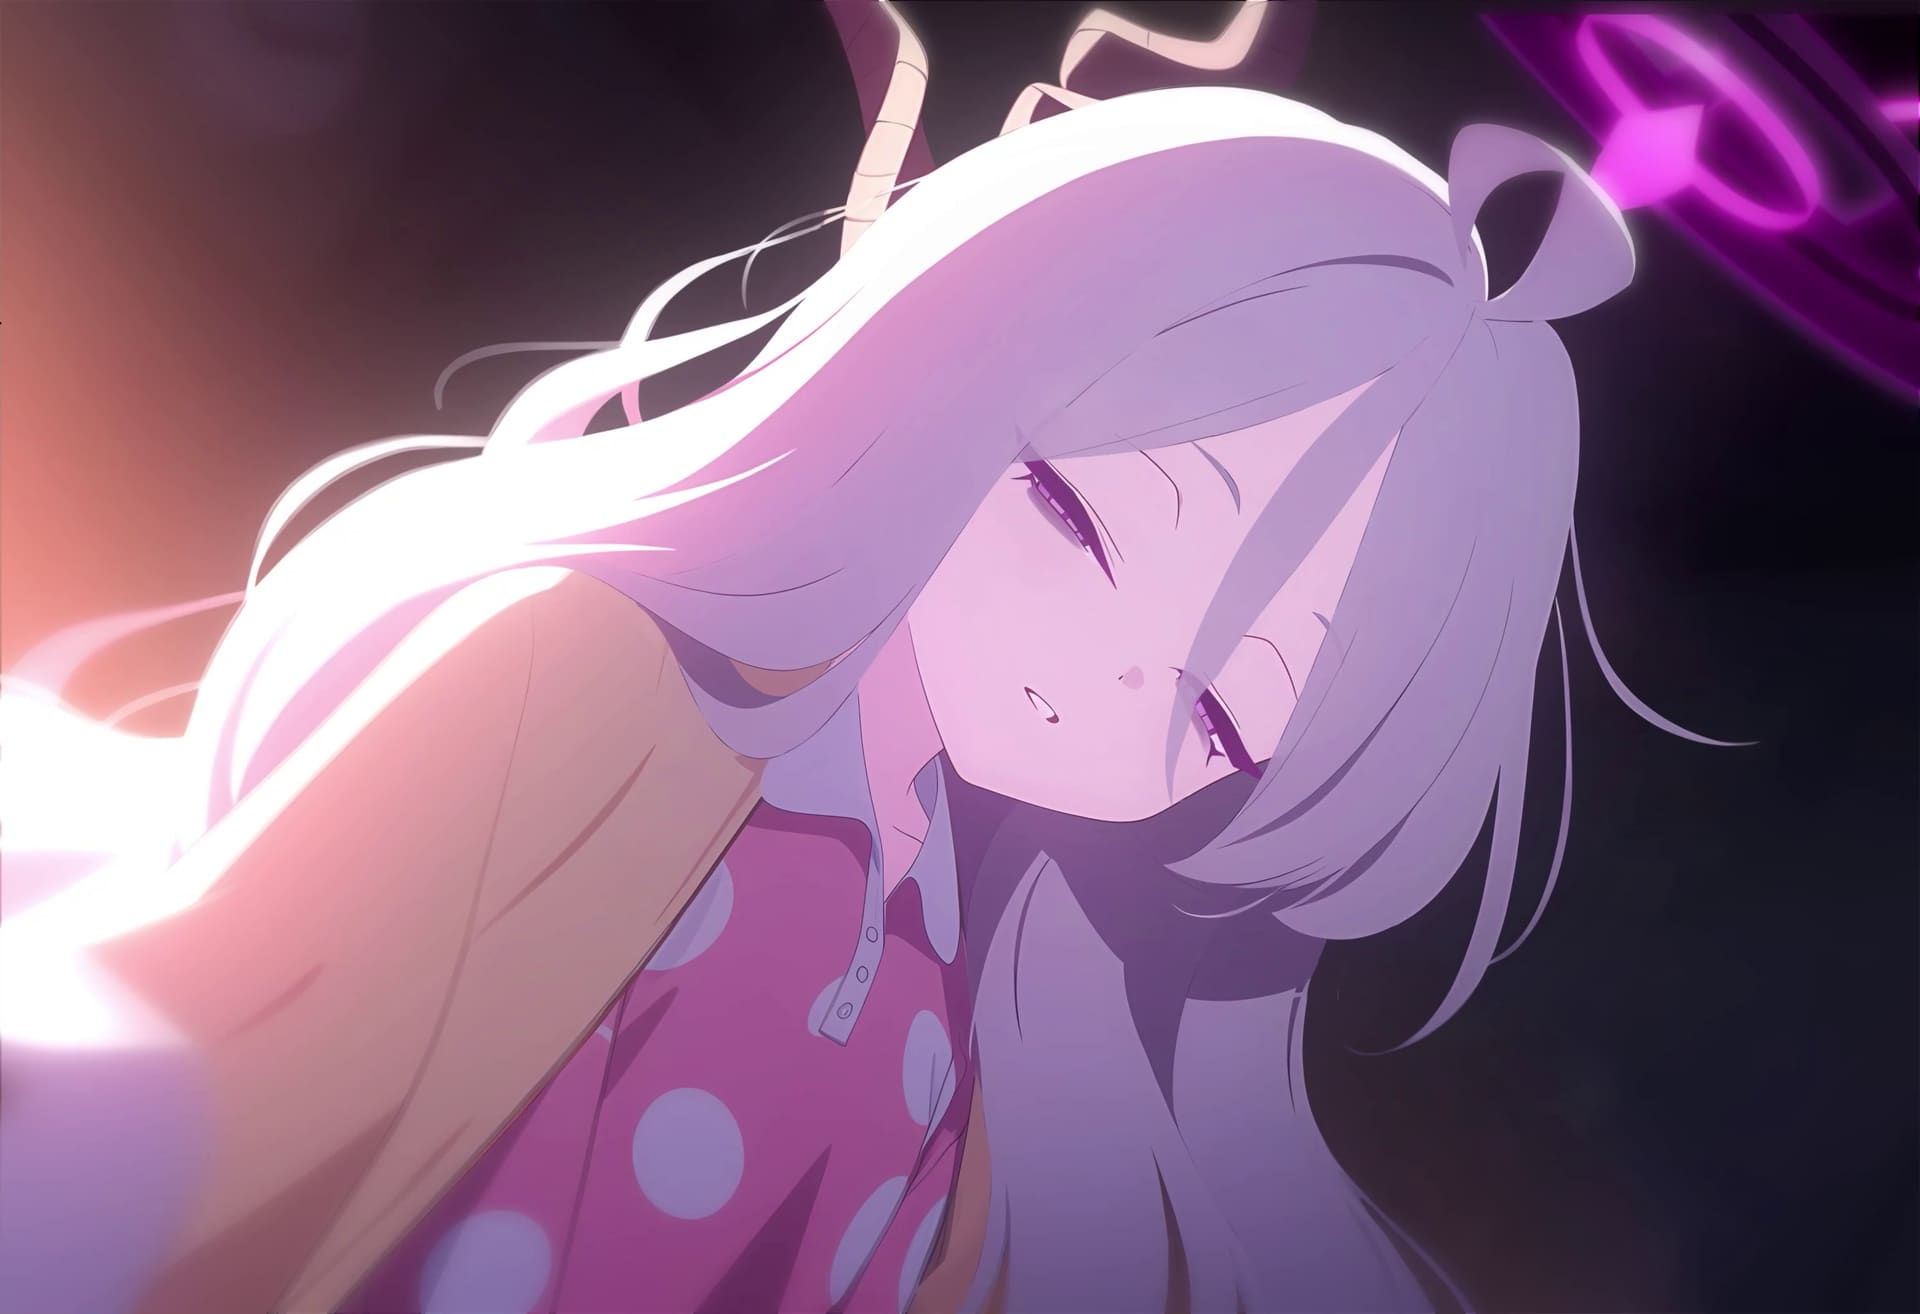
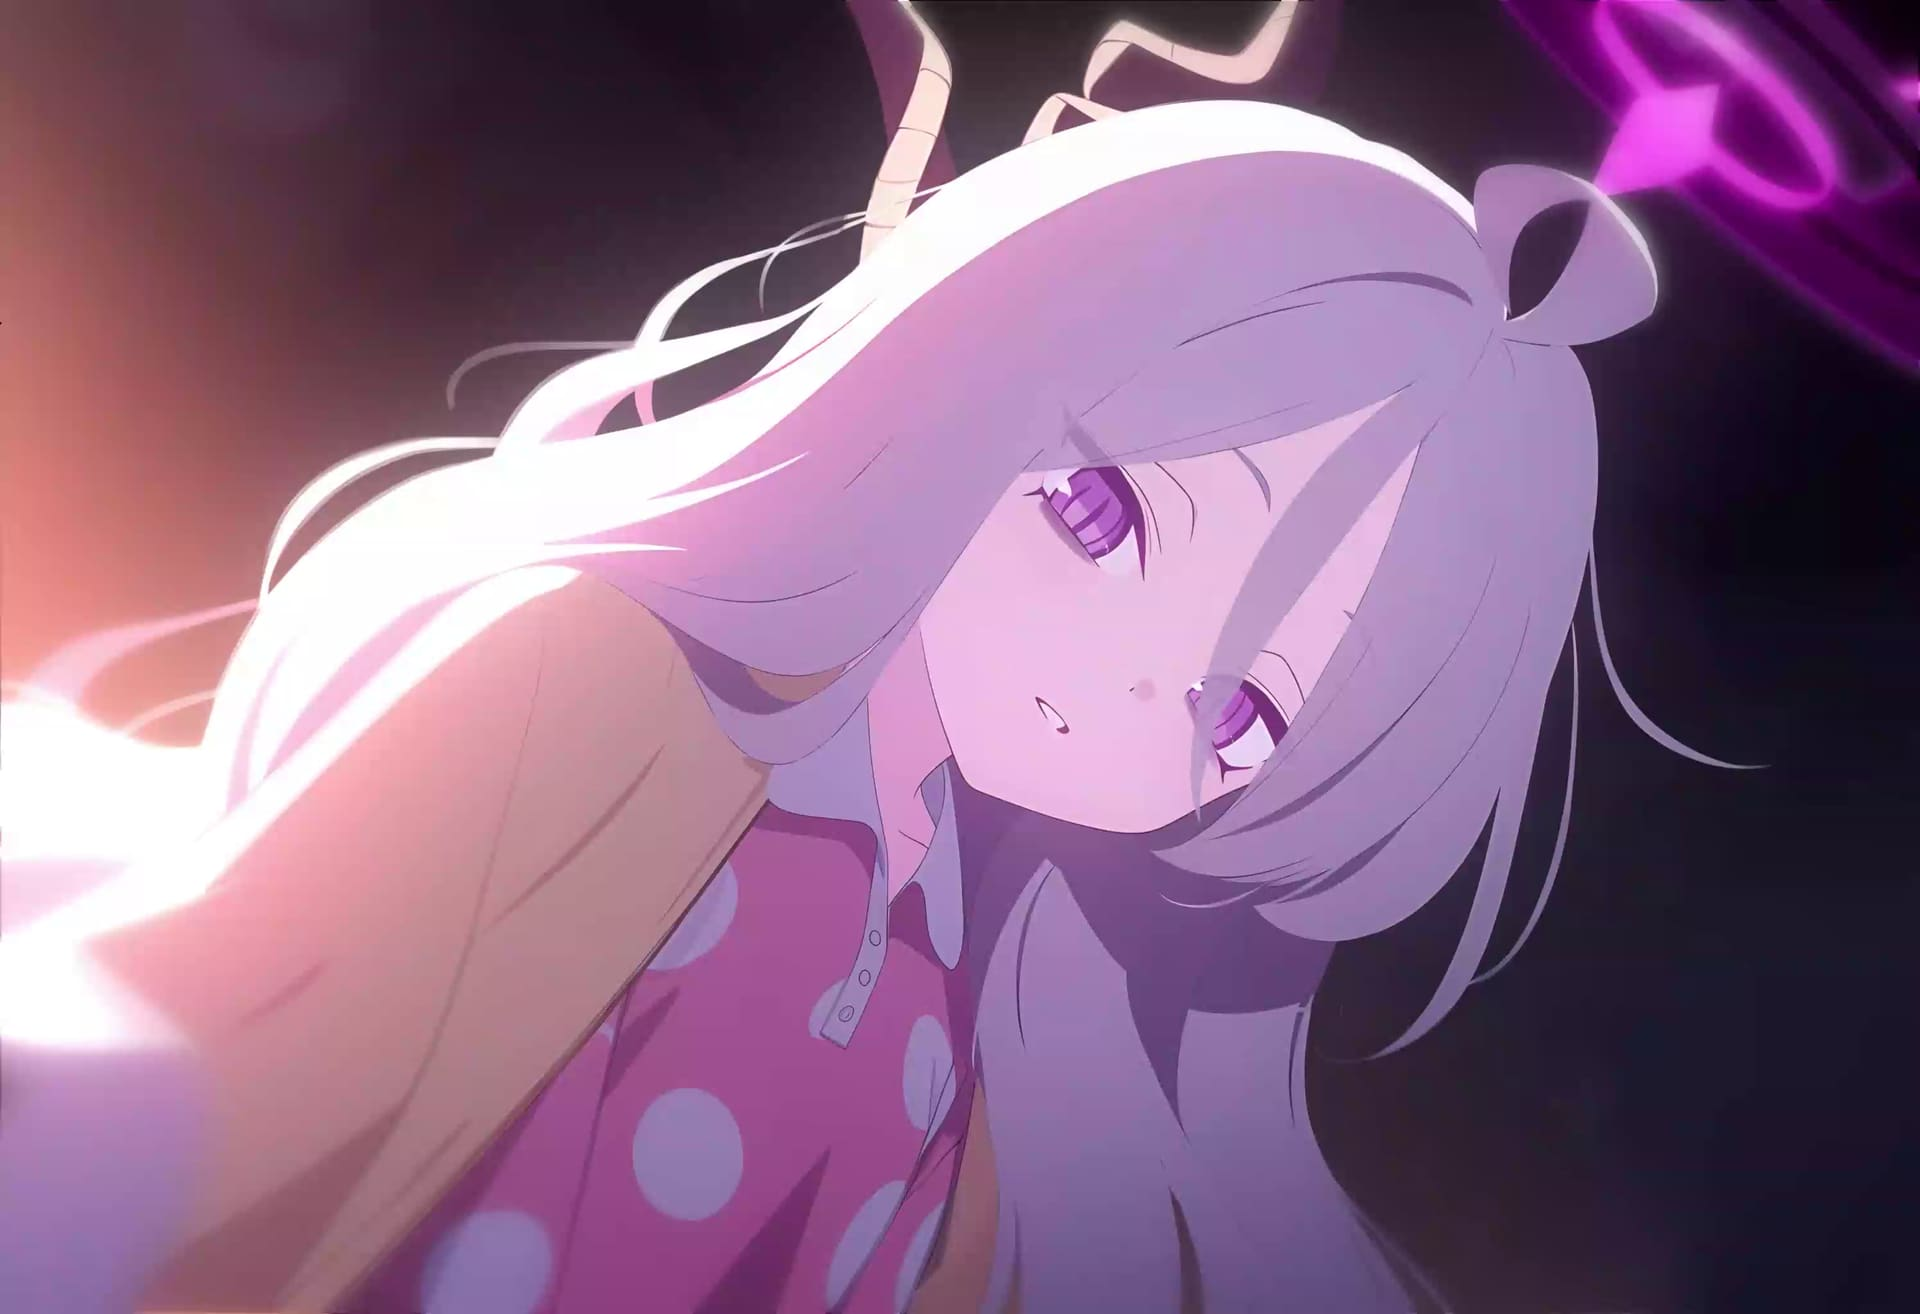
fix: 首屏背景图换成视频第 0 帧
原来抽的是第 3 秒 —— 那一帧人物闭着眼、嘴微张，表情有点怪。

从开头重抽了 6 帧对比（0 / 0.5 / 1 / 1.5 / 2 / 2.5 秒），
第 0 帧眼睛睁开、表情自然得多。

【选帧之前做了一个检查】
担心视频开头是淡入（那样第 0 帧会是黑的），所以量了各帧亮度：

  帧      平均亮度   暗部占比
  t0       116.3     28.6%
  t2.5     117.3     28.0%
  t8       116.9     28.3%
  t14      116.9     28.2%

各帧几乎完全一致 → 视频从第一帧就是完整画面，没有淡入。
所以第 0 帧是干净可用的。

顺带新增 docs/ASSETS.md，记录素材来源：

  Workshop ID  3480796089
  标题         睡衣日奈（ArcKing）
  分级         Everyone
  原始文件     壁纸循环.mp4（2992×2048，15 秒循环）

⚠ 里面也写明了**授权状态未确认** —— 这是第三方画师的同人作品，
通过创意工坊分发，不等于可以自由用于公开网站。
博客还没上线，自用没问题；真要公开挂站之前需要处理这件事
（换自有素材，或者取得授权并注明出处）。

同时也记了"为什么没用其他几张"，免得以后重复翻一遍那个文件夹。

四条检查全部通过；八套测试全部通过。

diff --git a/scripts/make-hero-bg.ts b/scripts/make-hero-bg.ts
@@ -21,6 +21,9 @@
  * 想换背景图？
  *   把自己的图放到 src/assets/images/hero-bg.png，再跑一次。
  *   脚本会按同样的尺寸和压缩质量生成 public/hero-bg.jpg。
+ *
+ * ⚠ 当前这张图是从第三方素材里抽的帧，**授权状况未确认**。
+ *    来源和替换建议记在 docs/ASSETS.md —— 真要公开挂站之前请先看那个文件。
  * ============================================================
  */
 import { existsSync, mkdirSync, statSync } from "node:fs";

diff --git a/docs/ASSETS.md b/docs/ASSETS.md
@@ -1,0 +1,85 @@
+# 素材来源记录
+
+这个文件记录项目里用到的**非自制素材**来源，方便以后查出出处。
+
+大部分图是本站自己的截图或示意图，不需要记在这里。
+只记"从别处拿来的"。
+
+---
+
+## 首页首屏背景图 `public/hero-bg.jpg`
+
+| 项 | 值 |
+| --- | --- |
+| 来源 | 本地 Wallpaper Engine 创意工坊素材 |
+| Workshop ID | `3480796089` |
+| 标题 | 睡衣日奈（ArcKing） |
+| 类型 | video（视频壁纸） |
+| 分级 | Everyone |
+| 原始文件 | `431960/3480796089/壁纸循环.mp4`（2992×2048，15 秒循环） |
+| 抽取方式 | `ffmpeg -i 壁纸循环.mp4 -frames:v 1`（**第 0 帧**） |
+| 成品 | 1920 宽 JPEG，约 99 KB |
+| 生成命令 | `node scripts/make-hero-bg.ts` |
+
+### ⚠ 授权状态：未确认
+
+这是**第三方画师的同人作品**，通过 Wallpaper Engine 创意工坊分发。
+授权状况不明 —— 创意工坊的素材不等于可以自由用于公开网站。
+
+**现在的处理**：
+
+- 博客尚未公开上线，自用没有问题
+- 原始 mp4 **没有**复制进仓库，只保留了压缩后的成品图
+
+**真要公开挂站之前，建议二选一**：
+
+```text
+1. 换成自有素材（自己画的、自己渲染的、CC0 授权的）
+2. 联系作者取得授权，并在页面上注明出处
+```
+
+**换图的方法**：把自己的图放到 `src/assets/images/hero-bg.png`，
+然后跑 `node scripts/make-hero-bg.ts` 重新生成成品。
+（该路径在 `.gitignore` 里，原图不会进仓库。）
+
+---
+
+## 筛选过程中排掉的素材
+
+顺便记一下**为什么没用**其他几张，免得以后重复翻一遍：
+
+```text
+Mature / Questionable 分级的              直接排除（确有露骨内容）
+scene 类型（初音未来、Blue Archive 等）     真素材打包在 scene.pkg 里，取不出来
+                                          只有 preview.gif 这种方形缩略图
+Web 类型（Nikke、Blue Archive 网页版）      本体是 1:1 手机壁纸，
+                                          裁成 1920×600 只剩一块花瓣纹理
+921617616/img/53478421_p0.png              Everyone 且是 16:9，但内容是
+                                          水下动漫少女：撕破的裙子 + 溺水意象
+kuroha（未标题-1_1.mp4）                   黑白素描线稿，带作者签名水印，
+                                          情绪忧郁，而且画面过亮不适合压字
+```
+
+**结论**：那个文件夹是手机壁纸为主的库，
+适合做**宽屏网页背景**的素材其实很少。
+
+### 为什么选第 0 帧
+
+一开始抽的是第 3 秒，结果人物闭着眼、嘴微张，表情有点怪。
+
+后来从开头抽了 6 帧对比（0 / 0.5 / 1 / 1.5 / 2 / 2.5 秒），
+又检查了整段视频的亮度分布：
+
+```text
+帧      平均亮度   暗部占比
+t0       116.3     28.6%
+t2.5     117.3     28.0%
+t8       116.9     28.3%
+t14      116.9     28.2%
+```
+
+**各帧亮度几乎完全一致** —— 说明视频从第一帧就是完整画面，
+开头没有淡入。所以第 0 帧是干净可用的，而且人物眼睛睁开、
+表情比第 3 秒自然得多。
+
+（这个检查是必要的：如果视频开头有淡入，第 0 帧会是黑的或半透明的。）
